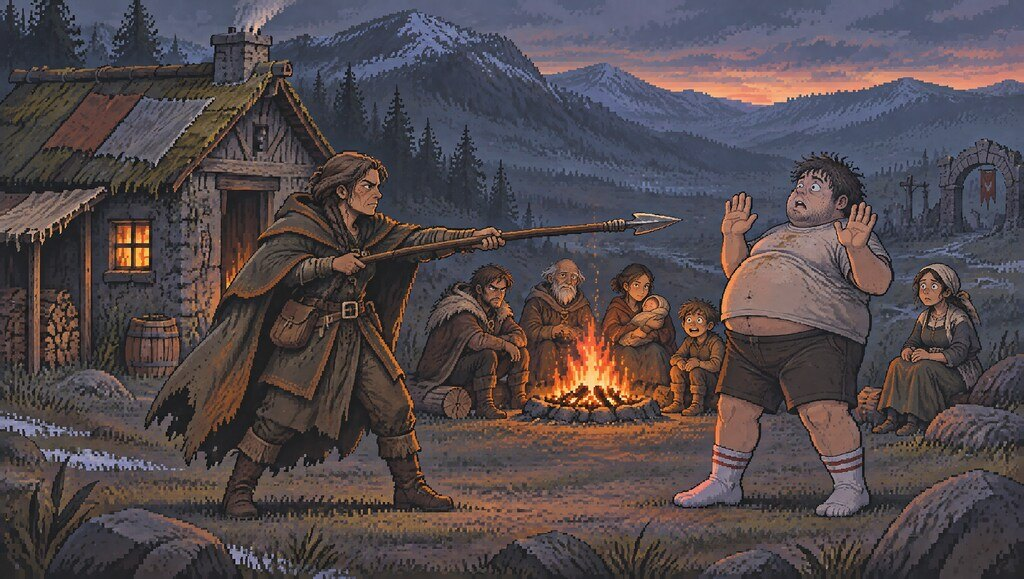
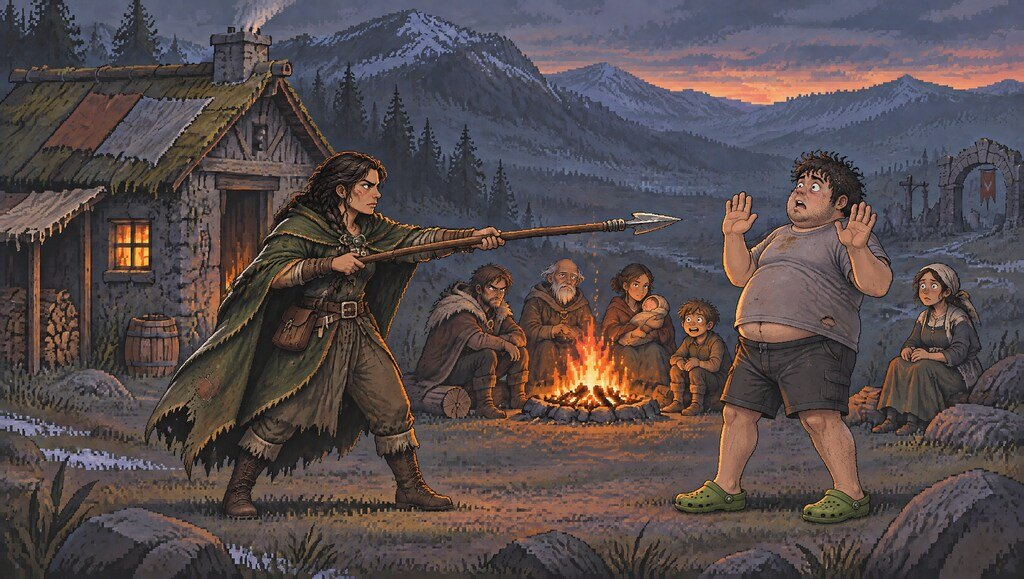
Redraw intro scenes and Maren, hero by the fire
Claude-Session: https://claude.ai/code/session_017UBDuv2aHeaKTXMiSvkDvS

diff --git a/index.html b/index.html
@@ -513,7 +513,7 @@ async function askAI(rules, turns, wantJson){
 function worldBrief(){
   const arc = S.fever && !S.fever.done && !S.fever.failed ? `The infant Wren has a dangerous fever. Feverbark from the village of Low Fennick would cure it, and ${feverLeft()} day(s) remain.` : S.fever && S.fever.failed ? 'The Stranger failed to fetch feverbark in time. Tobiah made the walk himself and can no longer walk at all. Wren lived.' : S.fever && S.fever.done ? 'The Stranger fetched the feverbark that broke the infant Wren\'s fever.' : '';
   return `This is a survival story game. Setting: a cold valley with no machines, no electricity and no writing beyond tally marks. Eleven survivors fled a river town burned by raiders called the Tallymen, after a stranger they trusted betrayed them. They camp at a ruined waystation called Hollow Ash: one hut, a fire, few stores. The Tallymen hold the crossings and commons and take a share from every settlement.
-The player is "the Stranger", who appeared from another world (ours), out of shape and in socks, and is allowed to stay only by working: hauling water, wood, food, stone and reeds on foot.
+The player is "the Stranger", who appeared from another world (ours), out of shape and wearing Crocs, and is allowed to stay only by working: hauling water, wood, food, stone and reeds on foot.
 The camp: Maren (leader, ferrywoman, widowed in the escape), Tobiah (old healer with a ruined knee), Isla (mother of the infant Wren), Dack (blunt hunter who distrusts the Stranger), Pip (ten-year-old orphan who counts the Stranger's steps), Oona (weaver who lost her loom).
 Facts right now. Stores: ${Object.entries(RES).map(([k, n]) => S.stock[k] + ' ' + n.toLowerCase()).join(', ')}. Built so far: ${BUILDS.filter(b => S.built[b.k]).map(b => b.name).join(', ') || 'nothing but the hut'}. The Stranger sleeps: ${sleep()}. The Stranger is called: ${RANKS[rankIdx()][1]}. Tasks the Stranger has completed: ${S.stats.tasks}. ${arc}`;
 }
@@ -573,13 +573,13 @@ const INTRO = [
   {img:'couch', eye:'Before', alt:'You, on the couch, as the living room dissolves into cold grass and stars',
    html:'<p>You are on the couch with a bag of chips on your chest, half watching something. You have not stood up in hours.</p><p>The room tilts.</p>'},
   {img:'intro-wake', eye:'Somewhere else', alt:'You, flat on your back in frosted grass under a huge sky of stars',
-   html:'<p>When it stops you are lying in cold grass under a sky with no wires in it. No street, no hum, no light but stars.</p><p>You are out of breath from doing nothing, and you are in your socks.</p>'},
+   html:'<p>When it stops you are lying in cold grass under a sky with no wires in it. No street, no hum, no light but stars.</p><p>You are out of breath from doing nothing, and all you have on your feet is a pair of Crocs.</p>'},
   {img:'intro-ridge', eye:'The ridge', alt:'You, trudging uphill through frosty grass toward a thread of smoke on a far ridge at dawn',
    html:'<p>By dawn you can see one thread of smoke on a far ridge. It is the only sign of anyone.</p><p>It is the longest walk you have taken in years. You stop four times. You keep going.</p>'},
   {img:'intro-spear', eye:'Hollow Ash', alt:'A woman in a worn cloak levels a spear at you while the camp watches from the fire',
    html:'<p>The smoke is a camp: one hut, a fire, eleven people who look like they have been running for a long time. A spear point stops you at the edge of it.</p><p>The woman holding it is called Maren. She studies you for a while. <span class="say">"You work, you eat,"</span> she says. <span class="say">"You sleep outside. That is the offer."</span></p>'},
-  {img:'intro-edge', eye:'First night', alt:'You, alone under a blanket at the edge of the firelight with an empty bowl, the others gathered at the fire',
-   html:'<p>They give you a blanket, a bowl, and a spot where the firelight runs out. Nobody tells you their name. The hut door stays shut.</p><p>If you want to eat tomorrow, you earn it. If you ever want to sleep inside, you earn that too.</p>'}
+  {img:'intro-edge', eye:'First night', alt:'You, wrapped in a blanket by the campfire with a bowl, the others watching from across the flames',
+   html:'<p>They give you a blanket, a bowl, and a place at the fire, on the far side from everyone else. Nobody tells you their name. The hut door stays shut.</p><p>If you want to eat tomorrow, you earn it. If you ever want to sleep inside, you earn that too.</p>'}
 ];
 const viewKey = () => !S.intro ? 'intro' + introStep : !S.home ? 'nohome' + (wantHome ? 'w' : '') + geoError : S.mission ? 'm' + S.mission.phase : scouting ? 'scouting' : S.offer ? 'offer' : 'board';
 function taskRow(id, arc){
@@ -606,7 +606,7 @@ function render(){
     if (!last) new Image().src = 'art/' + INTRO[introStep + 1].img + '.jpg';
     $('begin').onclick = () => {
       if (!last){ introStep++; render(); window.scrollTo(0, 0); return; }
-      S.intro = true; note('They call the place Hollow Ash. They call you Stranger. You have a spot at the edge of the embers and nothing else.'); save(); render(); window.scrollTo(0, 0);
+      S.intro = true; note('They call the place Hollow Ash. They call you Stranger. You have a place by the fire, a blanket, and nothing else.'); save(); render(); window.scrollTo(0, 0);
     };
     if (introStep) $('introBack').onclick = () => { introStep--; render(); window.scrollTo(0, 0); };
   } else if (!S.home){
